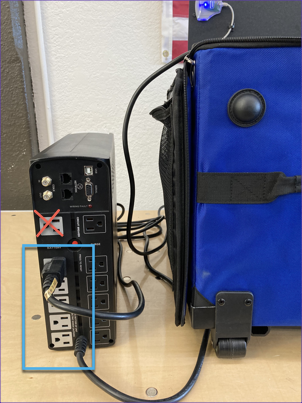
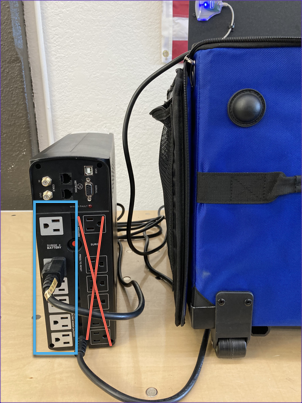
GitBook: [#277] No subject

Changed region(s): [[0.0596, 0.4764, 0.3576, 0.9529], [0.3576, 0.8337, 0.3874, 0.8635]]

diff --git a/poll-worker-guides/setting-up-and-opening-polls/vxscan-setup.md b/poll-worker-guides/setting-up-and-opening-polls/vxscan-setup.md
@@ -33,7 +33,7 @@ The **VxScan** should be setup on it's own table and the table should be located
 * [ ] plug the power backup into an outlet
 * [ ] turn power backup on
 
-![Remove power cord](<../../.gitbook/assets/vxscan cord.png>) ![Plug into a white outlet ](<../../.gitbook/assets/vxscan into ups.png>) ![Plug power backup into outlet](<../../.gitbook/assets/ups plugged in wall (1).png>) ![Turn power backup on](<../../.gitbook/assets/ups power button.png>)
+![Remove power cord](<../../.gitbook/assets/vxscan cord.png>) ![Plug into a white outlet ](<../../.gitbook/assets/vxscan into ups (1).png>) ![Plug power backup into outlet](<../../.gitbook/assets/ups plugged in wall (1).png>) ![Turn power backup on](<../../.gitbook/assets/ups power button.png>)
 
 3\. **Prepare the scanner:**
 
